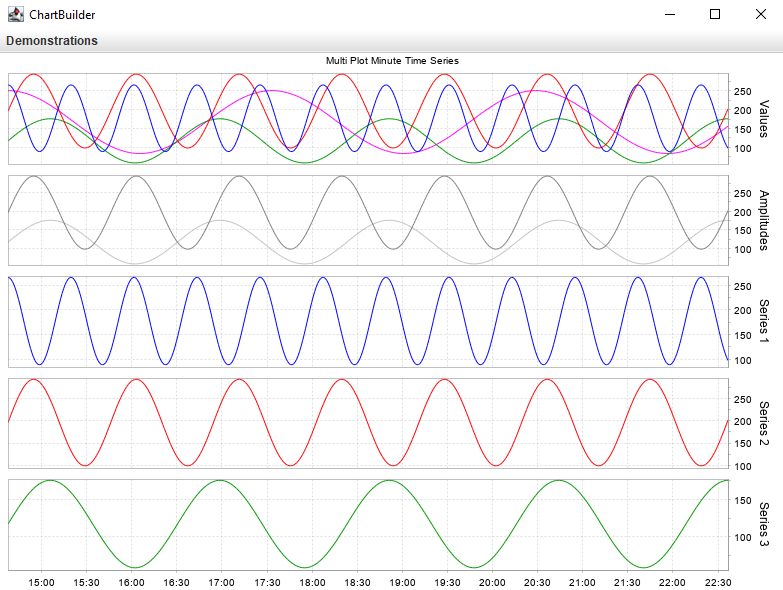
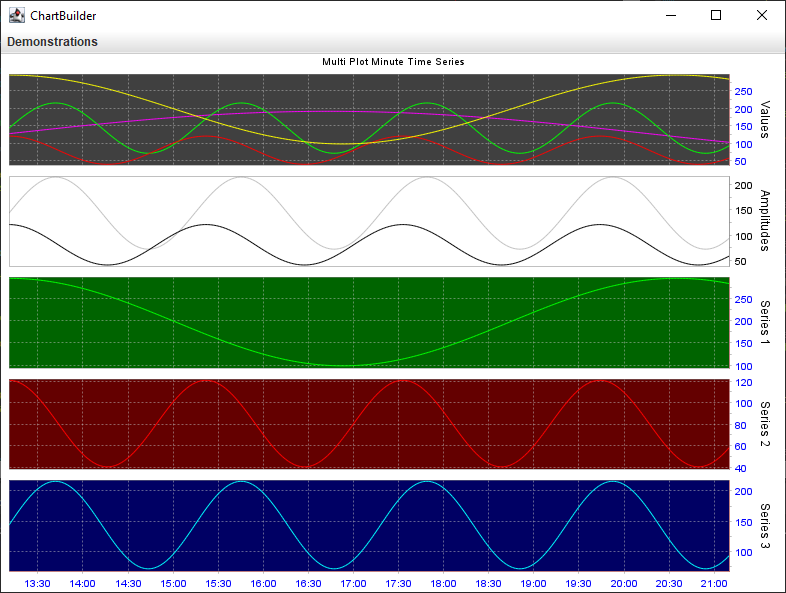
Add ability to specify plot colors and toggle grid lines

diff --git a/src/main/java/com/jfcbuilder/demo/JFreeChartBuilderDemo.java b/src/main/java/com/jfcbuilder/demo/JFreeChartBuilderDemo.java
@@ -75,7 +75,9 @@ public class JFreeChartBuilderDemo {
 
   private static final Stroke SOLID_LINE = BuilderConstants.SOLID_LINE;
   
+  private static final Color DARK_BLUE = new Color(0, 0, 100);
   private static final Color DARK_GREEN = new Color(0, 100, 0);
+  private static final Color DARK_RED = new Color(100, 0, 0);
   
   public static void main(String[] args) {
 
@@ -187,25 +189,29 @@ public class JFreeChartBuilderDemo {
         .title("Multi Plot Minute Time Series")
         .timeData(sinusoidMinutes)
         .indexRange(sinusoidMinuteStartIndex, sinusoidMinuteEndIndex)
-        
+
         .xyPlot(XYPlotBuilder.get().yAxisName("Values")
-          .series(XYTimeSeriesBuilder.get().data(sinMinute1).color(Color.BLUE).style(SOLID_LINE))
+          .backgroundColor(Color.DARK_GRAY).axisColor(Color.RED).axisFontColor(Color.BLUE).gridLines()
+          .series(XYTimeSeriesBuilder.get().data(sinMinute1).color(Color.YELLOW).style(SOLID_LINE))
           .series(XYTimeSeriesBuilder.get().data(sinMinute2).color(Color.RED).style(SOLID_LINE))
-          .series(XYTimeSeriesBuilder.get().data(sinMinute3).color(DARK_GREEN).style(SOLID_LINE))
+          .series(XYTimeSeriesBuilder.get().data(sinMinute3).color(Color.GREEN).style(SOLID_LINE))
           .series(XYTimeSeriesBuilder.get().data(sinMinute4).color(Color.MAGENTA).style(SOLID_LINE)))
         
         .xyPlot(XYPlotBuilder.get().yAxisName("Amplitudes")
-          .series(XYTimeSeriesBuilder.get().data(sinMinute2).color(Color.GRAY).style(SOLID_LINE))
+          .series(XYTimeSeriesBuilder.get().data(sinMinute2).color(Color.BLACK).style(SOLID_LINE))
           .series(XYTimeSeriesBuilder.get().data(sinMinute3).color(Color.LIGHT_GRAY).style(SOLID_LINE)))
         
         .xyPlot(XYPlotBuilder.get().yAxisName("Series 1")
-            .series(XYTimeSeriesBuilder.get().data(sinMinute1).color(Color.BLUE).style(SOLID_LINE)))
+          .backgroundColor(DARK_GREEN).axisColor(Color.RED).axisFontColor(Color.BLUE).gridLines()
+          .series(XYTimeSeriesBuilder.get().data(sinMinute1).color(Color.GREEN).style(SOLID_LINE)))
         
         .xyPlot(XYPlotBuilder.get().yAxisName("Series 2")
-            .series(XYTimeSeriesBuilder.get().data(sinMinute2).color(Color.RED).style(SOLID_LINE)))
+          .backgroundColor(DARK_RED).axisColor(Color.RED).axisFontColor(Color.BLUE).gridLines()
+          .series(XYTimeSeriesBuilder.get().data(sinMinute2).color(Color.RED).style(SOLID_LINE)))
         
         .xyPlot(XYPlotBuilder.get().yAxisName("Series 3")
-            .series(XYTimeSeriesBuilder.get().data(sinMinute3).color(DARK_GREEN).style(SOLID_LINE)))
+          .backgroundColor(DARK_BLUE).axisColor(Color.RED).axisFontColor(Color.BLUE).gridLines()
+          .series(XYTimeSeriesBuilder.get().data(sinMinute3).color(Color.CYAN).style(SOLID_LINE)))
         
         .build()
       );
@@ -218,7 +224,6 @@ public class JFreeChartBuilderDemo {
         .indexRange(ohlcStartIndex, ohlcEndIndex)
     
         .xyPlot(OhlcPlotBuilder.get().yAxisName("Price").plotWeight(3)
-            
           .series(OhlcSeriesBuilder.get().ohlcv(dohlcv).upColor(Color.WHITE).downColor(Color.RED))
           .series(XYTimeSeriesBuilder.get().name("MA(20)").data(sma20).color(Color.MAGENTA).style(SOLID_LINE))
           .series(XYTimeSeriesBuilder.get().name("MA(50)").data(sma50).color(Color.BLUE).style(SOLID_LINE))
@@ -244,7 +249,6 @@ public class JFreeChartBuilderDemo {
     
         
         .xyPlot(XYPlotBuilder.get().yAxisName("Stoch").yAxisRange(0.0, 100.0).yAxisTickSize(50.0).plotWeight(1)
-            
           .series(XYTimeSeriesBuilder.get().name("K(" + K + ")").data(stoch.getPctK()).color(Color.RED).style(SOLID_LINE))
           .series(XYTimeSeriesBuilder.get().name("D(" + D + ")").data(stoch.getPctD()).color(Color.BLUE).style(SOLID_LINE))
           .line(LineBuilder.get().horizontal().at(80.0).color(Color.BLACK).style(SOLID_LINE))

diff --git a/README.md b/README.md
@@ -31,7 +31,7 @@ Each time `develop` is merged into `main`, a version tag is added onto that merg
 
 * JDK 8 or greater [[1](https://openjdk.java.net/)] [[2](https://www.oracle.com/java/)] installed.
 * [Apache Maven](https://maven.apache.org/) installed.
-* Internet connection so Maven can download artifacts or you provide and install those into your local Maven repo by alternative means.
+* Internet connection for Maven downloads or you add them to your local Maven repo by other means.
 
 
 ## Installing the source code
